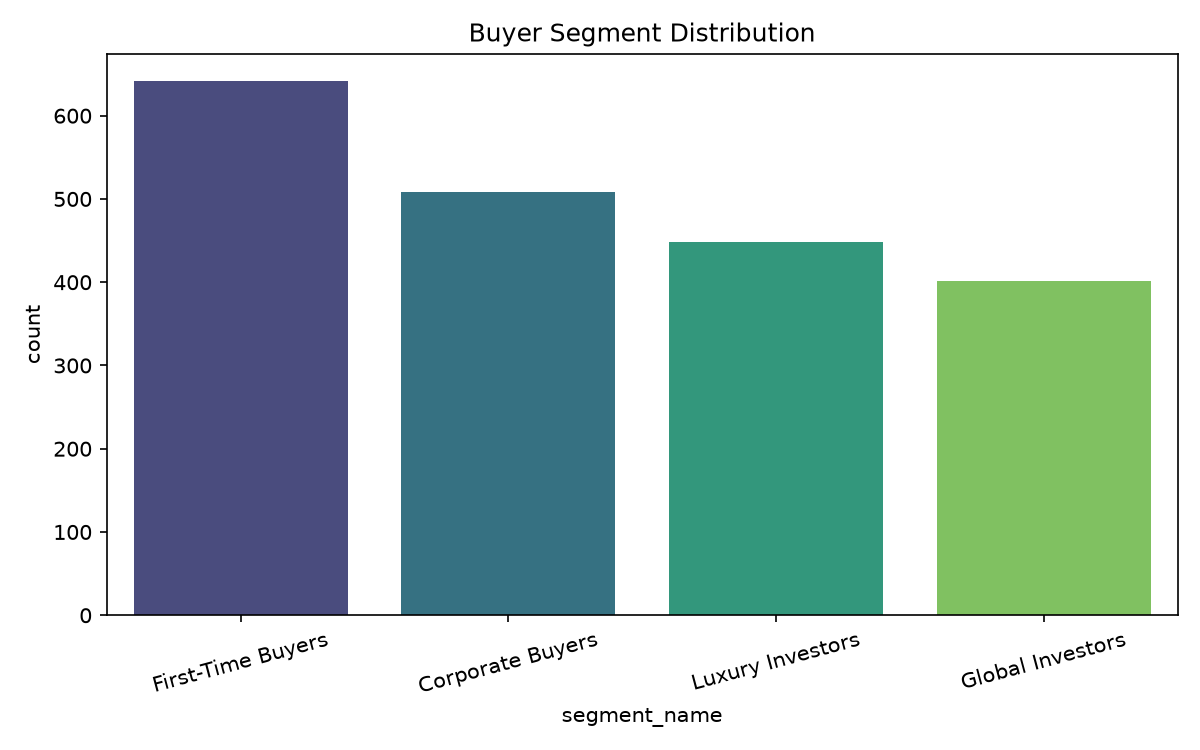
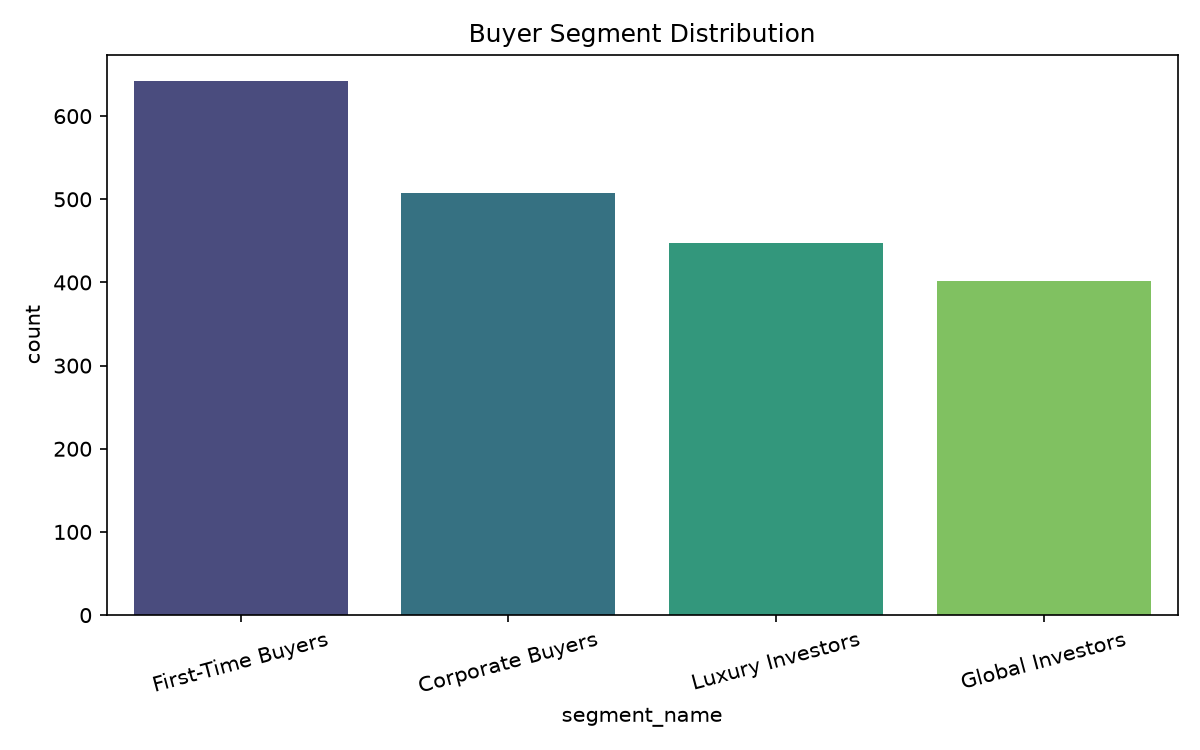
updated charts

Changed region(s): [[0.4008, 0.0307, 0.6783, 0.0613], [0.0308, 0.2453, 0.0617, 0.276]]

diff --git a/app/streamlit_app.py b/app/streamlit_app.py
@@ -32,10 +32,26 @@ SEGMENT_COLORS = {
 }
 
 CHART_LAYOUT = dict(
-    template="plotly_white",
-    margin=dict(l=20, r=20, t=50, b=20),
-    legend=dict(orientation="h", yanchor="bottom", y=1.02, xanchor="right", x=1),
-    font=dict(size=13),
+    template="plotly_dark",
+    paper_bgcolor="rgba(0,0,0,0)",
+    plot_bgcolor="rgba(0,0,0,0)",
+    margin=dict(l=60, r=25, t=60, b=65),
+    title=dict(
+        font=dict(size=16, color="#FFFFFF"),
+        y=0.98,
+        x=0.0,
+        xanchor="left",
+    ),
+    legend=dict(
+        orientation="h",
+        yanchor="top",
+        y=-0.22,
+        xanchor="center",
+        x=0.5,
+        title_text="",
+        font=dict(color="#FFFFFF", size=11),
+    ),
+    font=dict(size=12, color="#E2E8F0"),
 )
 
 
@@ -104,6 +120,18 @@ def apply_filters(df: pd.DataFrame) -> pd.DataFrame:
 
 def styled_figure(fig):
     fig.update_layout(**CHART_LAYOUT)
+    fig.update_xaxes(
+        tickfont=dict(color="#CBD5E1", size=11),
+        title_font=dict(color="#FFFFFF", size=12),
+        gridcolor="rgba(255, 255, 255, 0.08)",
+        linecolor="rgba(255, 255, 255, 0.2)",
+    )
+    fig.update_yaxes(
+        tickfont=dict(color="#CBD5E1", size=11),
+        title_font=dict(color="#FFFFFF", size=12),
+        gridcolor="rgba(255, 255, 255, 0.08)",
+        linecolor="rgba(255, 255, 255, 0.2)",
+    )
     return fig
 
 
@@ -192,15 +220,6 @@ def render_sidebar(df: pd.DataFrame) -> None:
         load_data.clear()
         st.rerun()
 
-    st.sidebar.divider()
-    st.sidebar.subheader("Where is data stored?")
-    st.sidebar.info(
-        "No database is used. Data is stored locally as files:\n\n"
-        f"- Raw input: `{DATA_DIR}/`\n"
-        f"- Trained output: `{MODELS_DIR}/`\n"
-        f"- Charts/reports: `{OUTPUTS_DIR}/`"
-    )
-
 
 def overview_tab(df: pd.DataFrame, metrics: dict) -> None:
     st.subheader("Buyer Segmentation Overview")
@@ -229,8 +248,17 @@ def overview_tab(df: pd.DataFrame, metrics: dict) -> None:
             color="Segment",
             color_discrete_map=SEGMENT_COLORS,
         )
-        fig.update_traces(textinfo="percent+label")
-        st.plotly_chart(styled_figure(fig), use_container_width=True)
+        fig.update_traces(textinfo="percent+label", textfont=dict(color="#FFFFFF", size=12))
+        fig.update_layout(
+            template="plotly_dark",
+            paper_bgcolor="rgba(0,0,0,0)",
+            plot_bgcolor="rgba(0,0,0,0)",
+            margin=dict(l=20, r=20, t=60, b=50),
+            title=dict(font=dict(size=16, color="#FFFFFF"), y=0.98, x=0.0, xanchor="left"),
+            legend=dict(orientation="h", yanchor="top", y=-0.1, xanchor="center", x=0.5, title_text="", font=dict(color="#FFFFFF", size=11)),
+            font=dict(size=12, color="#FFFFFF"),
+        )
+        st.plotly_chart(fig, use_container_width=True)
 
     with c2:
         if (FIGURES_DIR / "cluster_evaluation.png").exists():
@@ -345,7 +373,6 @@ def geographic_tab(df: pd.DataFrame) -> None:
     region_totals = region_seg.groupby("region")["buyers"].transform("sum")
     region_seg["share_pct"] = (region_seg["buyers"] / region_totals * 100).round(1)
 
-    st.markdown("#### Top Regions by Buyer Volume")
     fig_regions = px.bar(
         region_seg,
         y="region",
@@ -358,13 +385,16 @@ def geographic_tab(df: pd.DataFrame) -> None:
         labels={"buyers": "Buyers", "region": "Region", "segment_name": "Segment"},
         color_discrete_map=SEGMENT_COLORS,
     )
-    fig_regions.update_layout(height=420, yaxis=dict(autorange="reversed"))
+    fig_regions.update_layout(
+        height=450,
+        margin=dict(l=90, r=25, t=60, b=65),
+        yaxis=dict(autorange="reversed"),
+    )
     st.plotly_chart(styled_figure(fig_regions), use_container_width=True)
 
     c1, c2 = st.columns(2)
 
     with c1:
-        st.markdown("#### Country View")
         country_seg = (
             df.groupby(["country", "segment_name"], as_index=False)
             .size()
@@ -380,10 +410,13 @@ def geographic_tab(df: pd.DataFrame) -> None:
             labels={"country": "Country", "buyers": "Buyers", "segment_name": "Segment"},
             color_discrete_map=SEGMENT_COLORS,
         )
+        fig_country.update_layout(
+            height=460,
+            margin=dict(l=50, r=20, t=60, b=75),
+        )
         st.plotly_chart(styled_figure(fig_country), use_container_width=True)
 
     with c2:
-        st.markdown("#### Segment Mix by Region (%)")
         fig_mix = px.bar(
             region_seg,
             y="region",
@@ -392,13 +425,18 @@ def geographic_tab(df: pd.DataFrame) -> None:
             orientation="h",
             barmode="stack",
             category_orders={"region": region_order},
-            title="Segment Share Within Each Region",
+            title="Segment Share Within Each Region (%)",
             labels={"share_pct": "Share (%)", "region": "Region", "segment_name": "Segment"},
             color_discrete_map=SEGMENT_COLORS,
             text="share_pct",
         )
         fig_mix.update_traces(texttemplate="%{text:.0f}%", textposition="inside")
-        fig_mix.update_layout(height=420, xaxis=dict(range=[0, 100]), yaxis=dict(autorange="reversed"))
+        fig_mix.update_layout(
+            height=460,
+            xaxis=dict(range=[0, 100]),
+            yaxis=dict(autorange="reversed"),
+            margin=dict(l=90, r=20, t=60, b=75),
+        )
         st.plotly_chart(styled_figure(fig_mix), use_container_width=True)
 
     st.markdown("#### Region Summary Table")
@@ -469,17 +507,27 @@ def insights_tab(df: pd.DataFrame) -> None:
     with c1:
         ref = seg_df["referral_channel"].value_counts().reset_index()
         ref.columns = ["Channel", "Count"]
+        ref_fig = px.bar(ref, x="Channel", y="Count", title=f"Referral Channels – {segment}")
+        ref_fig.update_layout(showlegend=False)
         st.plotly_chart(
-            styled_figure(px.bar(ref, x="Channel", y="Count", title=f"Referral Channels – {segment}")),
+            styled_figure(ref_fig),
             use_container_width=True,
         )
     with c2:
         loan = seg_df["loan_applied"].value_counts().reset_index()
         loan.columns = ["Loan Applied", "Count"]
-        st.plotly_chart(
-            styled_figure(px.pie(loan, names="Loan Applied", values="Count", title=f"Financing – {segment}")),
-            use_container_width=True,
+        loan_fig = px.pie(loan, names="Loan Applied", values="Count", title=f"Financing – {segment}")
+        loan_fig.update_traces(textinfo="percent+label", textfont=dict(color="#FFFFFF", size=12))
+        loan_fig.update_layout(
+            template="plotly_dark",
+            paper_bgcolor="rgba(0,0,0,0)",
+            plot_bgcolor="rgba(0,0,0,0)",
+            margin=dict(l=20, r=20, t=60, b=50),
+            title=dict(font=dict(size=16, color="#FFFFFF"), y=0.98, x=0.0, xanchor="left"),
+            legend=dict(orientation="h", yanchor="top", y=-0.1, xanchor="center", x=0.5, title_text="", font=dict(color="#FFFFFF", size=11)),
+            font=dict(size=12, color="#FFFFFF"),
         )
+        st.plotly_chart(loan_fig, use_container_width=True)
 
     st.dataframe(
         seg_df[
